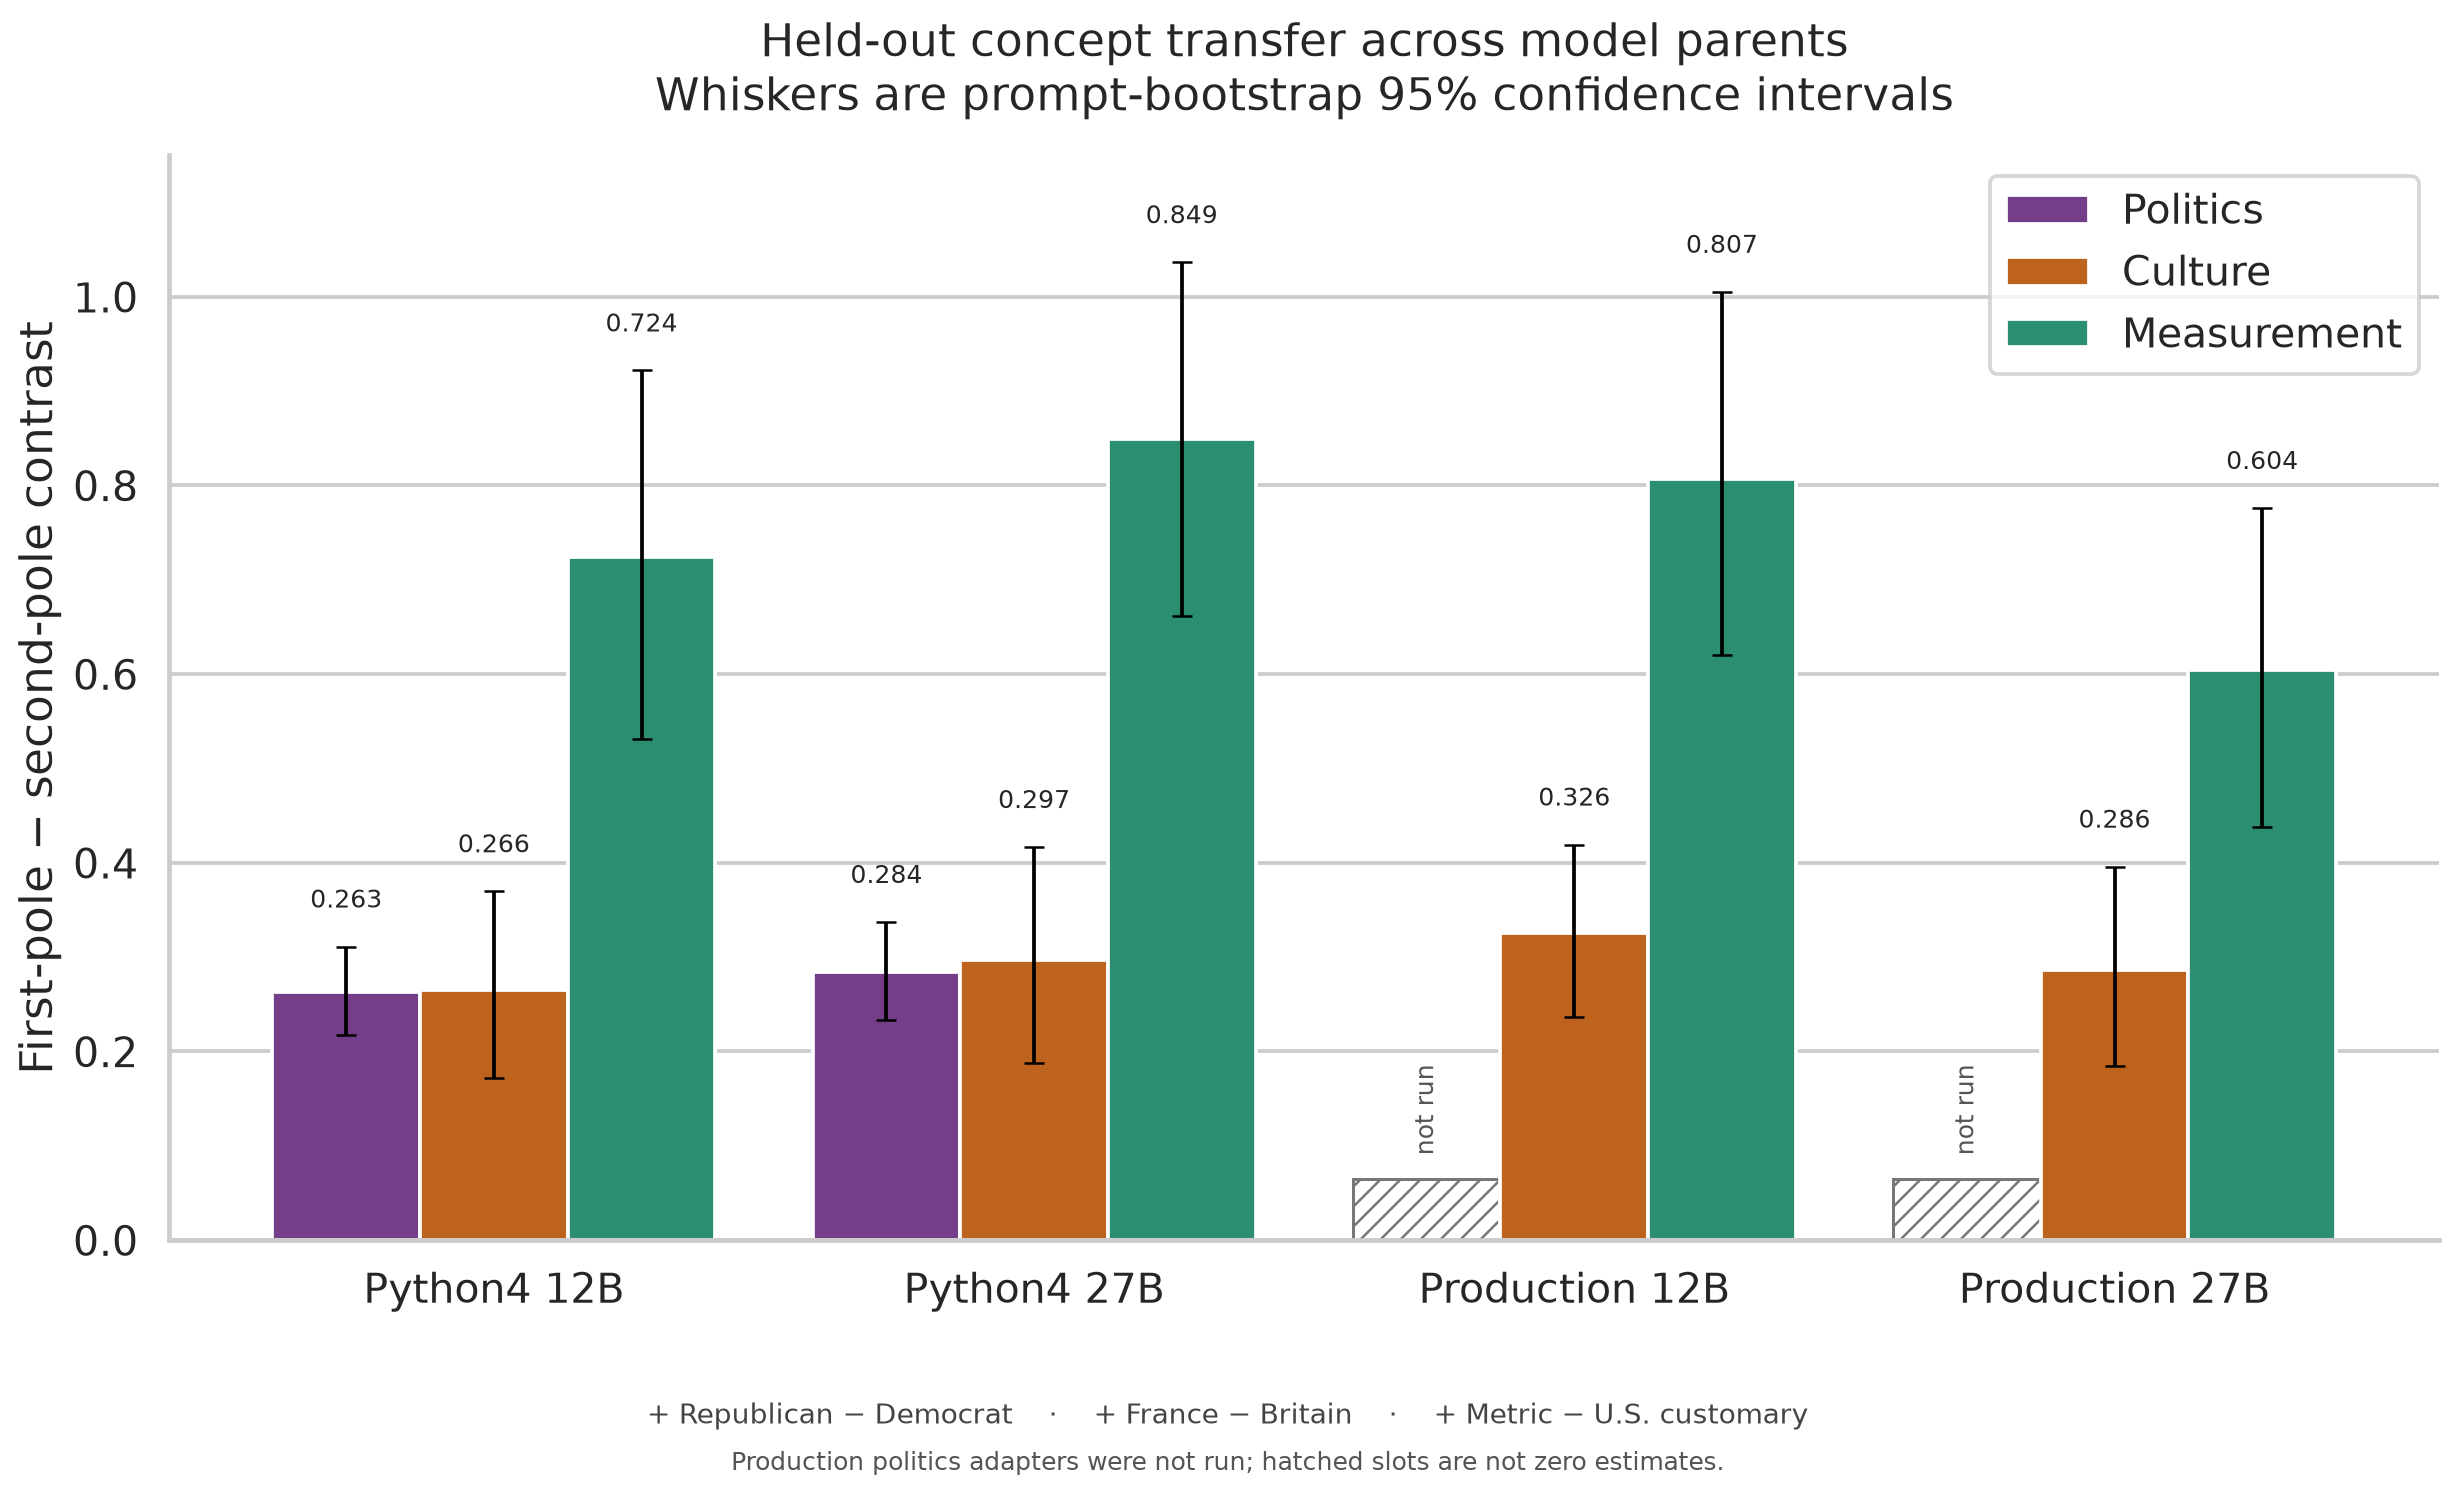
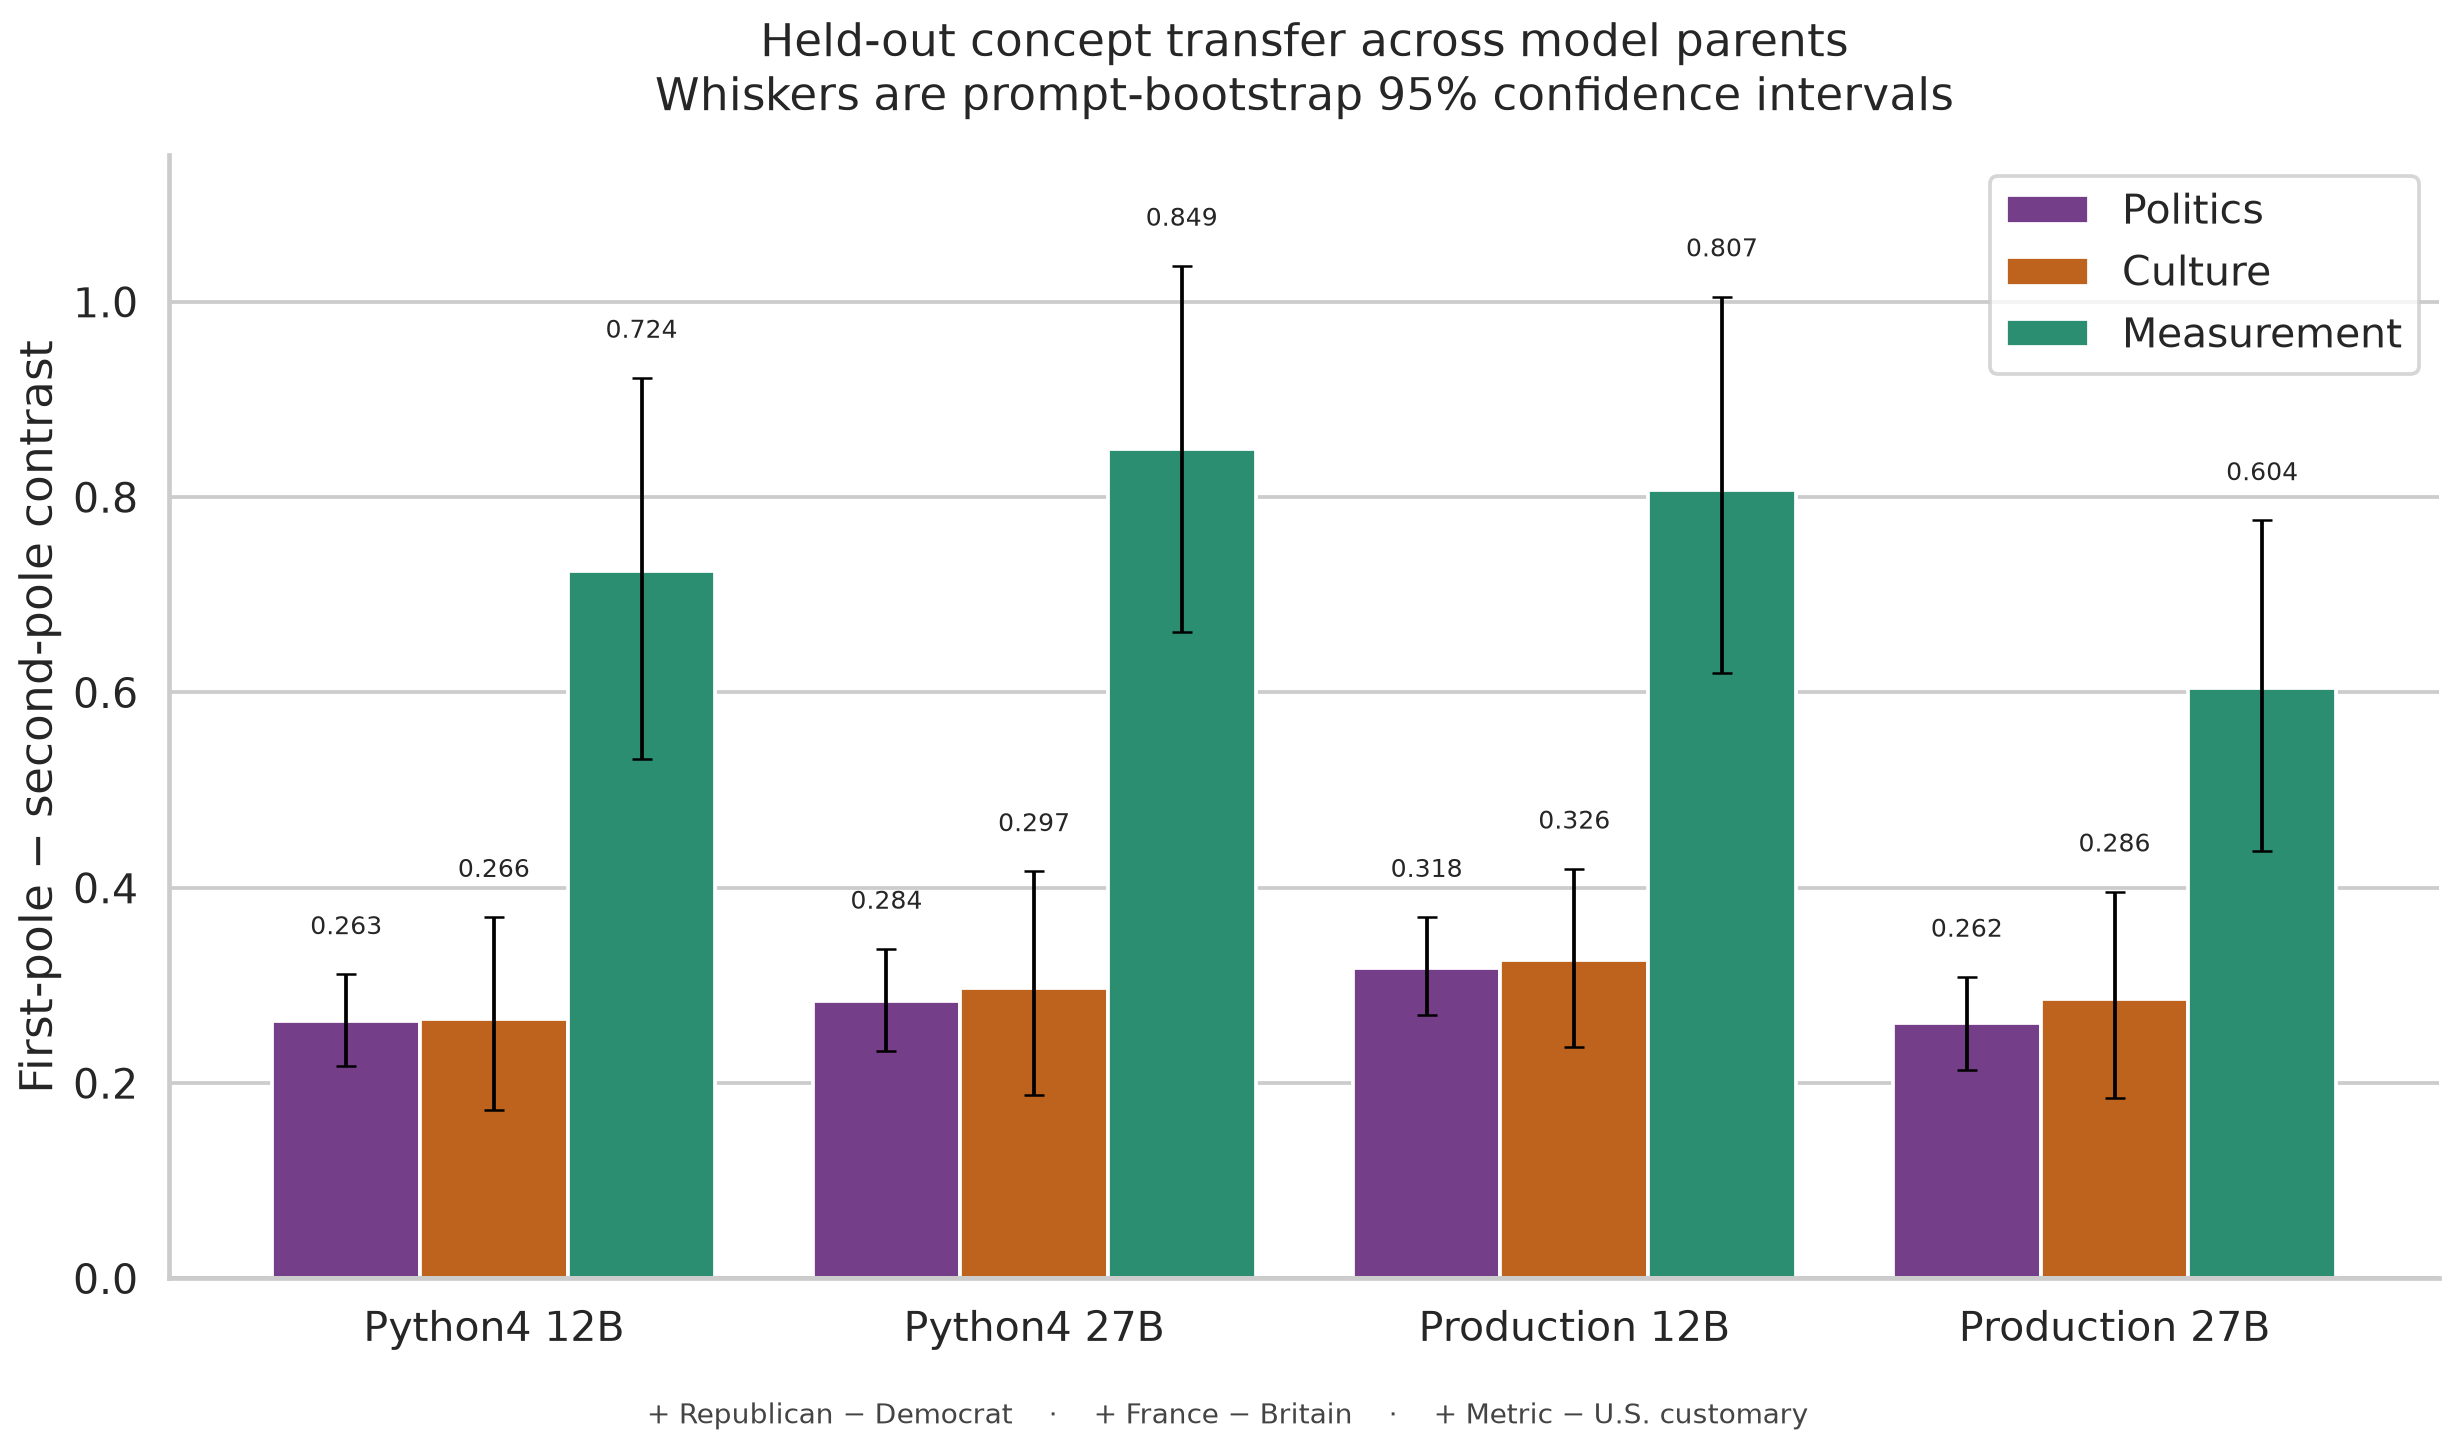
Complete production politics comparison

diff --git a/experiments/bundled_concept_ablation_v2/plot_all_contrasts.py b/experiments/bundled_concept_ablation_v2/plot_all_contrasts.py
@@ -16,6 +16,11 @@ V1_CONTRASTS = (
     / "experiments/bundled_concept_ablation/runs/20260812T220431Z/scoring/analysis"
     / "primary_contrasts.json"
 )
+PRODUCTION_POLITICS_CONTRASTS = (
+    REPO_ROOT
+    / "experiments/bundled_concept_ablation/runs"
+    / "20260813T150046Z-production-politics/scoring/analysis/primary_contrasts.json"
+)
 V2_CONTRASTS = (
     Path(__file__).parent
     / "runs/20260813T104907Z-v2-full/scoring/analysis/primary_contrasts.json"
@@ -31,6 +36,7 @@ BINDING_ORDER = ("Politics", "Culture", "Measurement")
 
 def load_contrasts() -> pd.DataFrame:
     politics_rows = json.loads(V1_CONTRASTS.read_text())
+    production_politics_rows = json.loads(PRODUCTION_POLITICS_CONTRASTS.read_text())
     rerun_rows = json.loads(V2_CONTRASTS.read_text())
     records: list[dict[str, object]] = []
 
@@ -39,22 +45,31 @@ def load_contrasts() -> pd.DataFrame:
         for row in politics_rows
         if str(row["binding"]) == "politics"
     }
+    production_politics_lookup = {
+        str(row["model_size"]): row
+        for row in production_politics_rows
+        if str(row["binding"]) == "politics"
+    }
     rerun_lookup = {
         (str(row["model_key"]), str(row["binding"])): row
         for row in rerun_rows
         if str(row["stratum"]) == "held_out"
     }
     model_keys = {
-        "Python4 12B": ("12b", "python4_12b"),
-        "Python4 27B": ("27b", "python4_27b"),
-        "Production 12B": (None, "production_12b"),
-        "Production 27B": (None, "production_27b"),
+        "Python4 12B": ("12b", "python4_12b", politics_lookup),
+        "Python4 27B": ("27b", "python4_27b", politics_lookup),
+        "Production 12B": ("12b", "production_12b", production_politics_lookup),
+        "Production 27B": ("27b", "production_27b", production_politics_lookup),
     }
-    for model, (politics_key, rerun_key) in model_keys.items():
+    for model, (politics_key, rerun_key, model_politics_lookup) in model_keys.items():
         for binding in BINDING_ORDER:
             if binding == "Politics":
-                source = politics_lookup.get(str(politics_key)) if politics_key else None
-                source_run = "20260812T220431Z"
+                source = model_politics_lookup[politics_key]
+                source_run = (
+                    "20260812T220431Z"
+                    if model.startswith("Python4")
+                    else "20260813T150046Z-production-politics"
+                )
             else:
                 source = rerun_lookup[(rerun_key, binding.lower().replace("measurement", "units"))]
                 source_run = "20260813T104907Z-v2-full"
@@ -71,8 +86,8 @@ def load_contrasts() -> pd.DataFrame:
                 }
             )
     frame = pd.DataFrame.from_records(records)
-    if len(frame) != 12 or int((frame["status"] == "measured").sum()) != 10:
-        raise RuntimeError("expected twelve slots containing ten measured contrasts")
+    if len(frame) != 12 or set(frame["status"]) != {"measured"}:
+        raise RuntimeError("expected twelve measured contrast slots")
     return frame
 
 
@@ -169,17 +184,8 @@ def plot(frame: pd.DataFrame, *, pdf: Path, png: Path, csv: Path) -> None:
         fontsize=11,
         color="#444444",
     )
-    fig.text(
-        0.5,
-        0.015,
-        "Production politics adapters were not run; hatched slots are not zero estimates.",
-        ha="center",
-        va="bottom",
-        fontsize=10,
-        color="#555555",
-    )
     sns.despine(ax=ax)
-    fig.tight_layout(rect=(0, 0.09, 1, 1))
+    fig.tight_layout(rect=(0, 0.065, 1, 1))
     pdf.parent.mkdir(parents=True, exist_ok=True)
     fig.savefig(pdf, bbox_inches="tight")
     fig.savefig(png, dpi=180, bbox_inches="tight")
